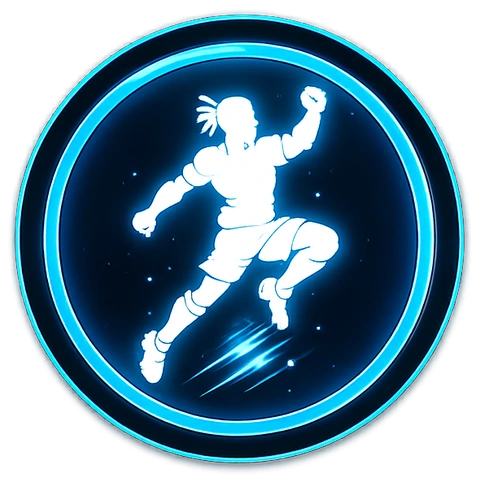
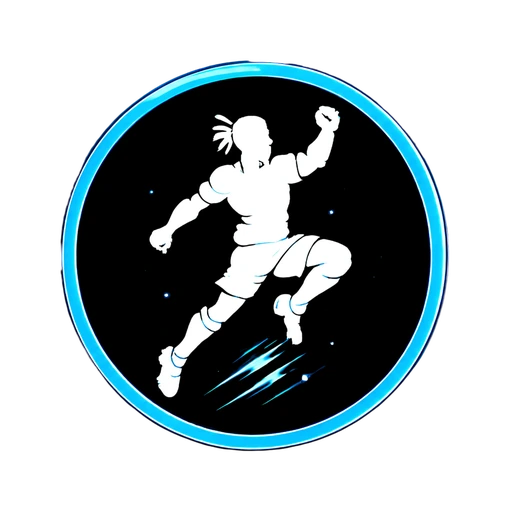
Aplica anel de seleção animado também no botão PULAR
Atualiza a arte de PULAR (mesma ilustração em resolução maior) e
adiciona o anel neon separado por cima, que expande/pulsa ao redor do
personagem quando o jogador clica ou segura o botão — mesmo tratamento
já aplicado ao botão CHUTAR. A regra CSS do anel de seleção foi
generalizada de #kick.pressed para .actbtn.pressed para servir os
dois botões.

Claude-Session: https://claude.ai/code/session_01LG7Xcc2Wn3nPRXw6iVFxMy

diff --git a/css/game.css b/css/game.css
@@ -303,19 +303,19 @@
     object-fit:contain; pointer-events:none; -webkit-user-drag:none; }
   #kick { bottom:24px; right:max(24px, env(safe-area-inset-right)); width:88px; height:88px;
     filter:drop-shadow(0 0 10px rgba(245,197,66,.6)); }
-  /* Anel de seleção do chute: some em repouso; ao clicar/segurar, aparece e
-     expande ao redor da bola indicando que o botão foi acionado. */
+  #jump { bottom:30px; right:calc(max(24px, env(safe-area-inset-right)) + 96px); width:76px; height:76px;
+    filter:drop-shadow(0 0 10px rgba(41,209,255,.6)); }
+  /* Anel de seleção: some em repouso; ao clicar/segurar em PULAR ou CHUTAR,
+     aparece e expande ao redor do ícone indicando que o botão foi acionado. */
   .actring { position:absolute; inset:0; width:100%; height:100%;
     object-fit:contain; pointer-events:none; -webkit-user-drag:none;
     opacity:0; transform:scale(.8); transition:transform .18s ease-out, opacity .18s ease-out; }
-  #kick.pressed .actring { opacity:1; transform:scale(1.35);
-    animation:kickRingPulse .7s ease-in-out infinite; }
-  @keyframes kickRingPulse {
+  .actbtn.pressed .actring { opacity:1; transform:scale(1.35);
+    animation:actRingPulse .7s ease-in-out infinite; }
+  @keyframes actRingPulse {
     0%,100% { transform:scale(1.35); }
     50% { transform:scale(1.5); }
   }
-  #jump { bottom:30px; right:calc(max(24px, env(safe-area-inset-right)) + 96px); width:76px; height:76px;
-    filter:drop-shadow(0 0 10px rgba(41,209,255,.6)); }
 
   /* ---------- Zoom da câmera (Longe / Perto) ---------- */
   #zoom { position:absolute; top:8px; left:50%; transform:translateX(-50%);

diff --git a/js/input.js b/js/input.js
@@ -30,9 +30,11 @@ function movePointer(e){
   stickVec={x:dx/MAXR, y:dy/MAXR};
 }
 kickBtn.addEventListener('pointerdown',e=>{ e.preventDefault(); kickBtn.classList.add('pressed'); kick(); });
-['pointerup','pointercancel','pointerleave'].forEach(ev=>
-  kickBtn.addEventListener(ev, ()=> kickBtn.classList.remove('pressed')));
-jumpBtn.addEventListener('pointerdown',e=>{ e.preventDefault(); jump(); });
+jumpBtn.addEventListener('pointerdown',e=>{ e.preventDefault(); jumpBtn.classList.add('pressed'); jump(); });
+['pointerup','pointercancel','pointerleave'].forEach(ev=>{
+  kickBtn.addEventListener(ev, ()=> kickBtn.classList.remove('pressed'));
+  jumpBtn.addEventListener(ev, ()=> jumpBtn.classList.remove('pressed'));
+});
 
 // Botão único de câmera: alterna entre Longe e Perto.
 // Longe → texto "Perto" (vai aproximar); Perto → texto "Longe" (vai afastar).

diff --git a/index.html b/index.html
@@ -66,7 +66,10 @@
   <div id="stick"><div id="knob"></div></div>
   <!-- PULAR/CHUTAR: ícones próprios (anel neon já desenhado na arte), em vez
        de texto — mesmo padrão dos botões da home (img preenchendo o botão). -->
-  <div id="jump" class="actbtn" aria-label="Pular"><img class="actimg" src="assets/btn-jump.webp" alt="" draggable="false" /></div>
+  <div id="jump" class="actbtn" aria-label="Pular">
+    <img class="actring" src="assets/btn-jump-ring.webp" alt="" draggable="false" />
+    <img class="actimg" src="assets/btn-jump.webp" alt="" draggable="false" />
+  </div>
   <div id="kick" class="actbtn" aria-label="Chutar">
     <img class="actring" src="assets/btn-kick-ring.webp" alt="" draggable="false" />
     <img class="actimg" src="assets/btn-kick.webp" alt="" draggable="false" />